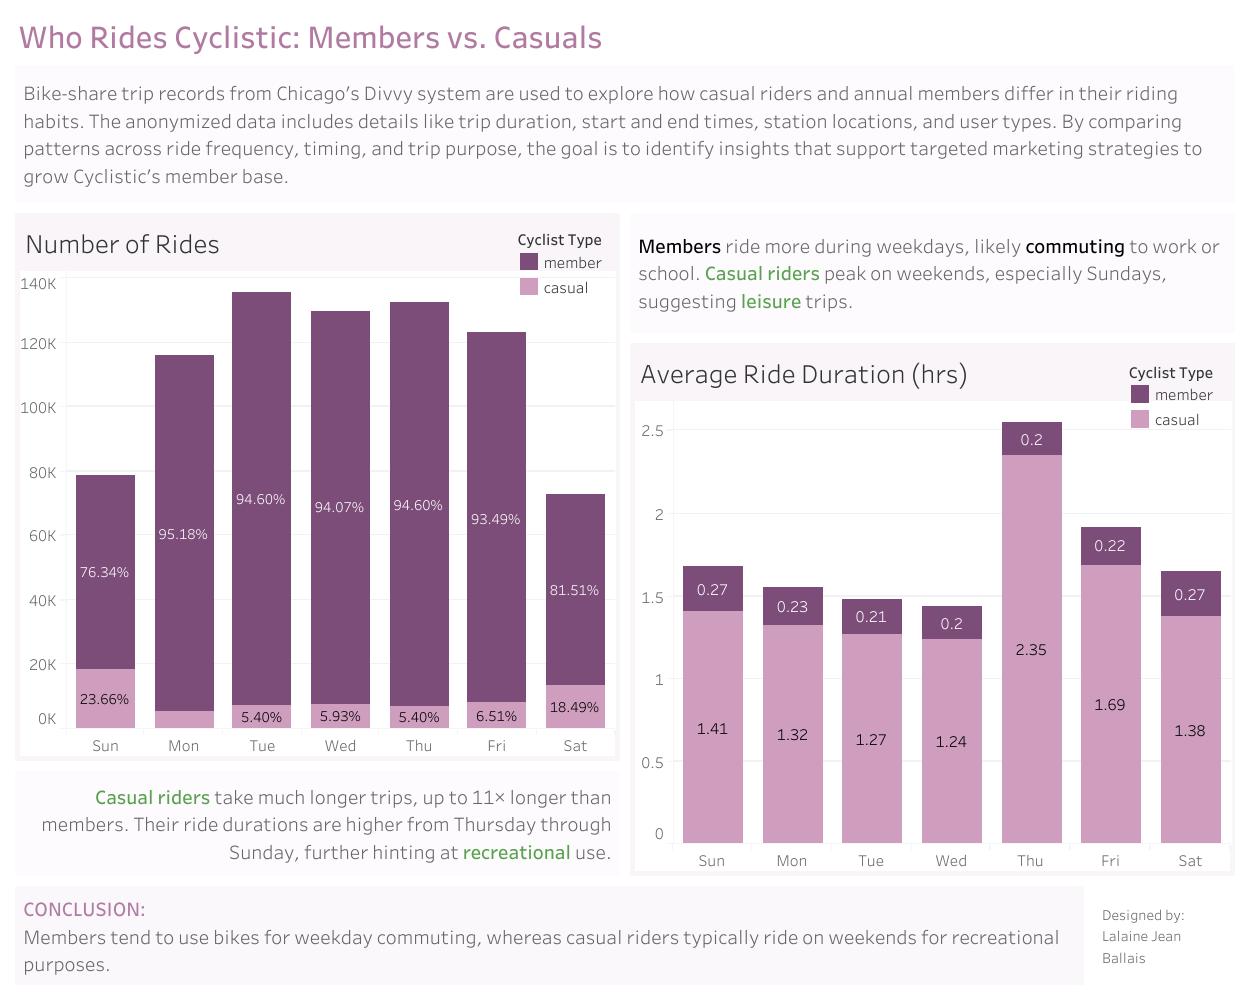
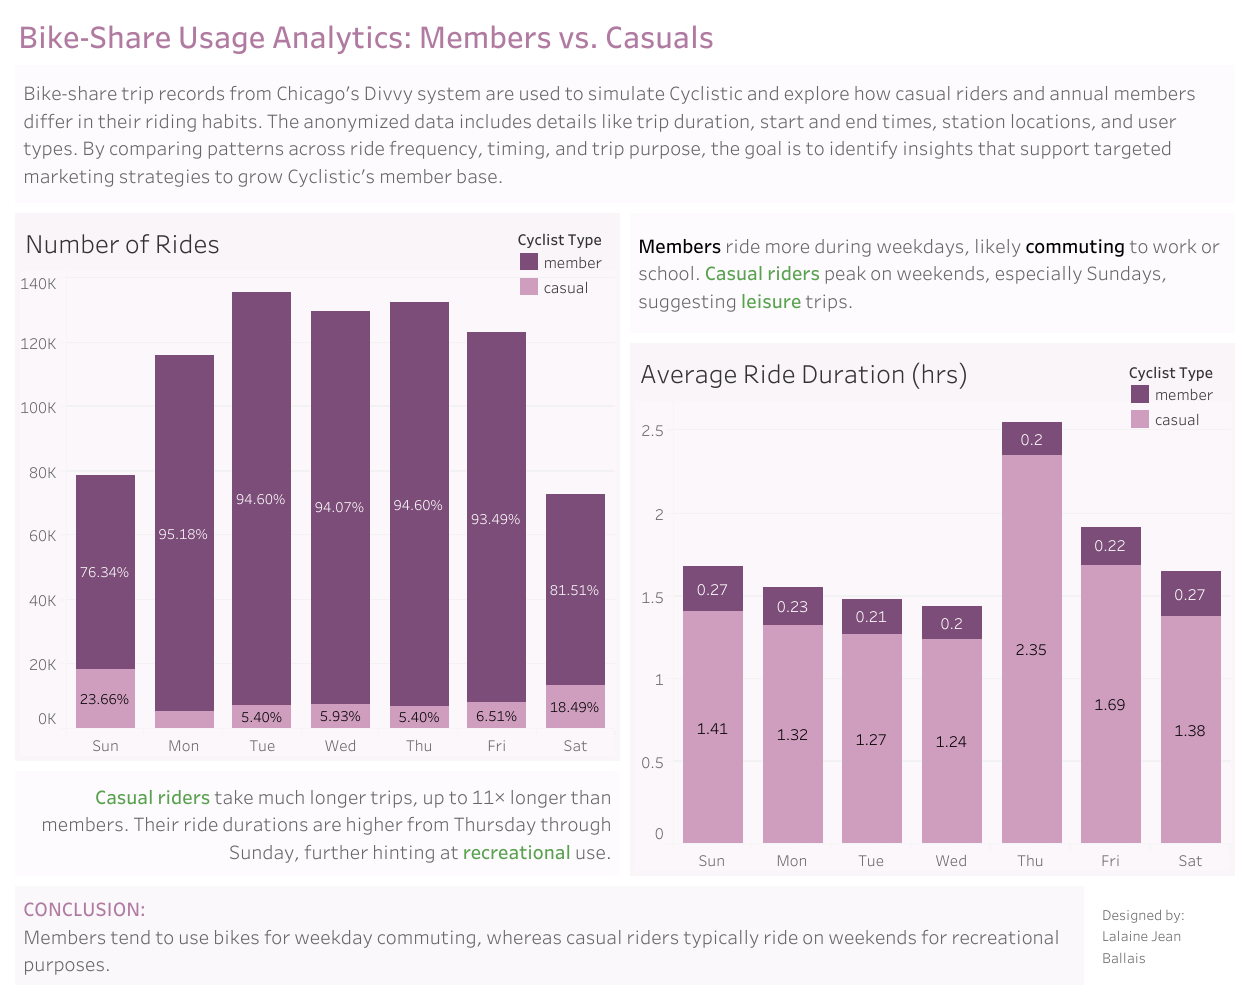
Revised Title

Changed region(s): [[0.0312, 0.0931, 0.968, 0.1862], [0.0, 0.031, 0.562, 0.0621]]

diff --git a/README.md b/README.md
@@ -1,4 +1,4 @@
-# Who Uses Cyclistic: Members vs Casuals
+# Bike-Share Usage Analytics: Members vs Casuals
 
 Anonymized bike-share data from Chicago's Divvy system are used to compare casual riders and annual members. It examines trip duration, timing, and usage patterns to uncover insights that support targeted Cyclistic marketing.
 
